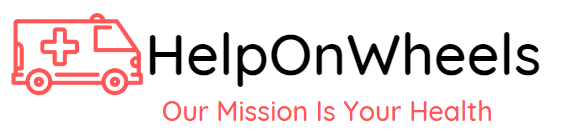
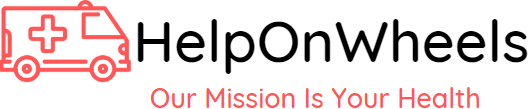
Add files via upload

Changed region(s): [[0.0, 0.0, 0.9981, 0.7706], [0.2722, 0.7706, 0.9074, 0.9908]]

diff --git a/about.html b/about.html
@@ -6,5 +6,5 @@
     </head>
 <body style="background-color: #d3bbdb;">
     <a href="index.html"><img src="am4.png" alt="Smiley face" width="275" height="60" style="float:left"></a>
-    <center><h7 style="color:black;"><p style="font-family: Tahoma"><a href="about.html" style="color:black;"><u>About</u></a>&emsp;<u>Services</u>&emsp;<u><a href="contact.html" style="color:black;">Contact</a></u></p></h7></center>
+    <center><h7 style="color:black;"><p style="font-family: Tahoma"><a href="about.html" style="color:black;"><u>About</u></a>&emsp;<a href="services.html" style="color:black;"><u>Services</u></a>&emsp;<u><a href="contact.html" style="color:black;">Contact</a></u></p></h7></center>
 </body>

diff --git a/services.html b/services.html
@@ -1,0 +1,12 @@
+<!DOCTYPE html>
+<html lang="en" dir="ltr">
+  <head>
+    <meta charset="utf-8">
+    <title></title>
+    <link rel="stylesheet" href="/css/style.css">
+  </head>
+  <body style="background-color:#423e3a">
+    <a href="index.html"><img src="am5.png" alt="Smiley face" width="275" height="60" style="float:left"></a>
+    <center><h7><p style="font-family: tahoma;"><a href="about.html" style="color:white"><u>About</u></a>&emsp;<a href="services.html" style="color:white"><u>Services</u></a>&emsp;<u><a href="contact.html" style="color:white">Contact</a></u></p></h7></center>
+  </body>
+</html>

diff --git a/index.html b/index.html
@@ -5,6 +5,6 @@
   <title>HelpOnWheels</title>
 </head>
 <body>
-    <img src="am2.png" alt="Smiley face" width="275" height="70" style="float:left">
+    <img src="am2.png" alt="Smiley face" width="275" height="60" style="float:left">
     <center><h7><p style="font-family: Tahoma;"><a href="about.html" style="color:black"><u>About</u></a>&emsp;<a href="services.html" style="color:black"><u>Services</u></a>&emsp;<u><a href="contact.html" style="color:black">Contact</a></u></p></h7></center>
   </body>
